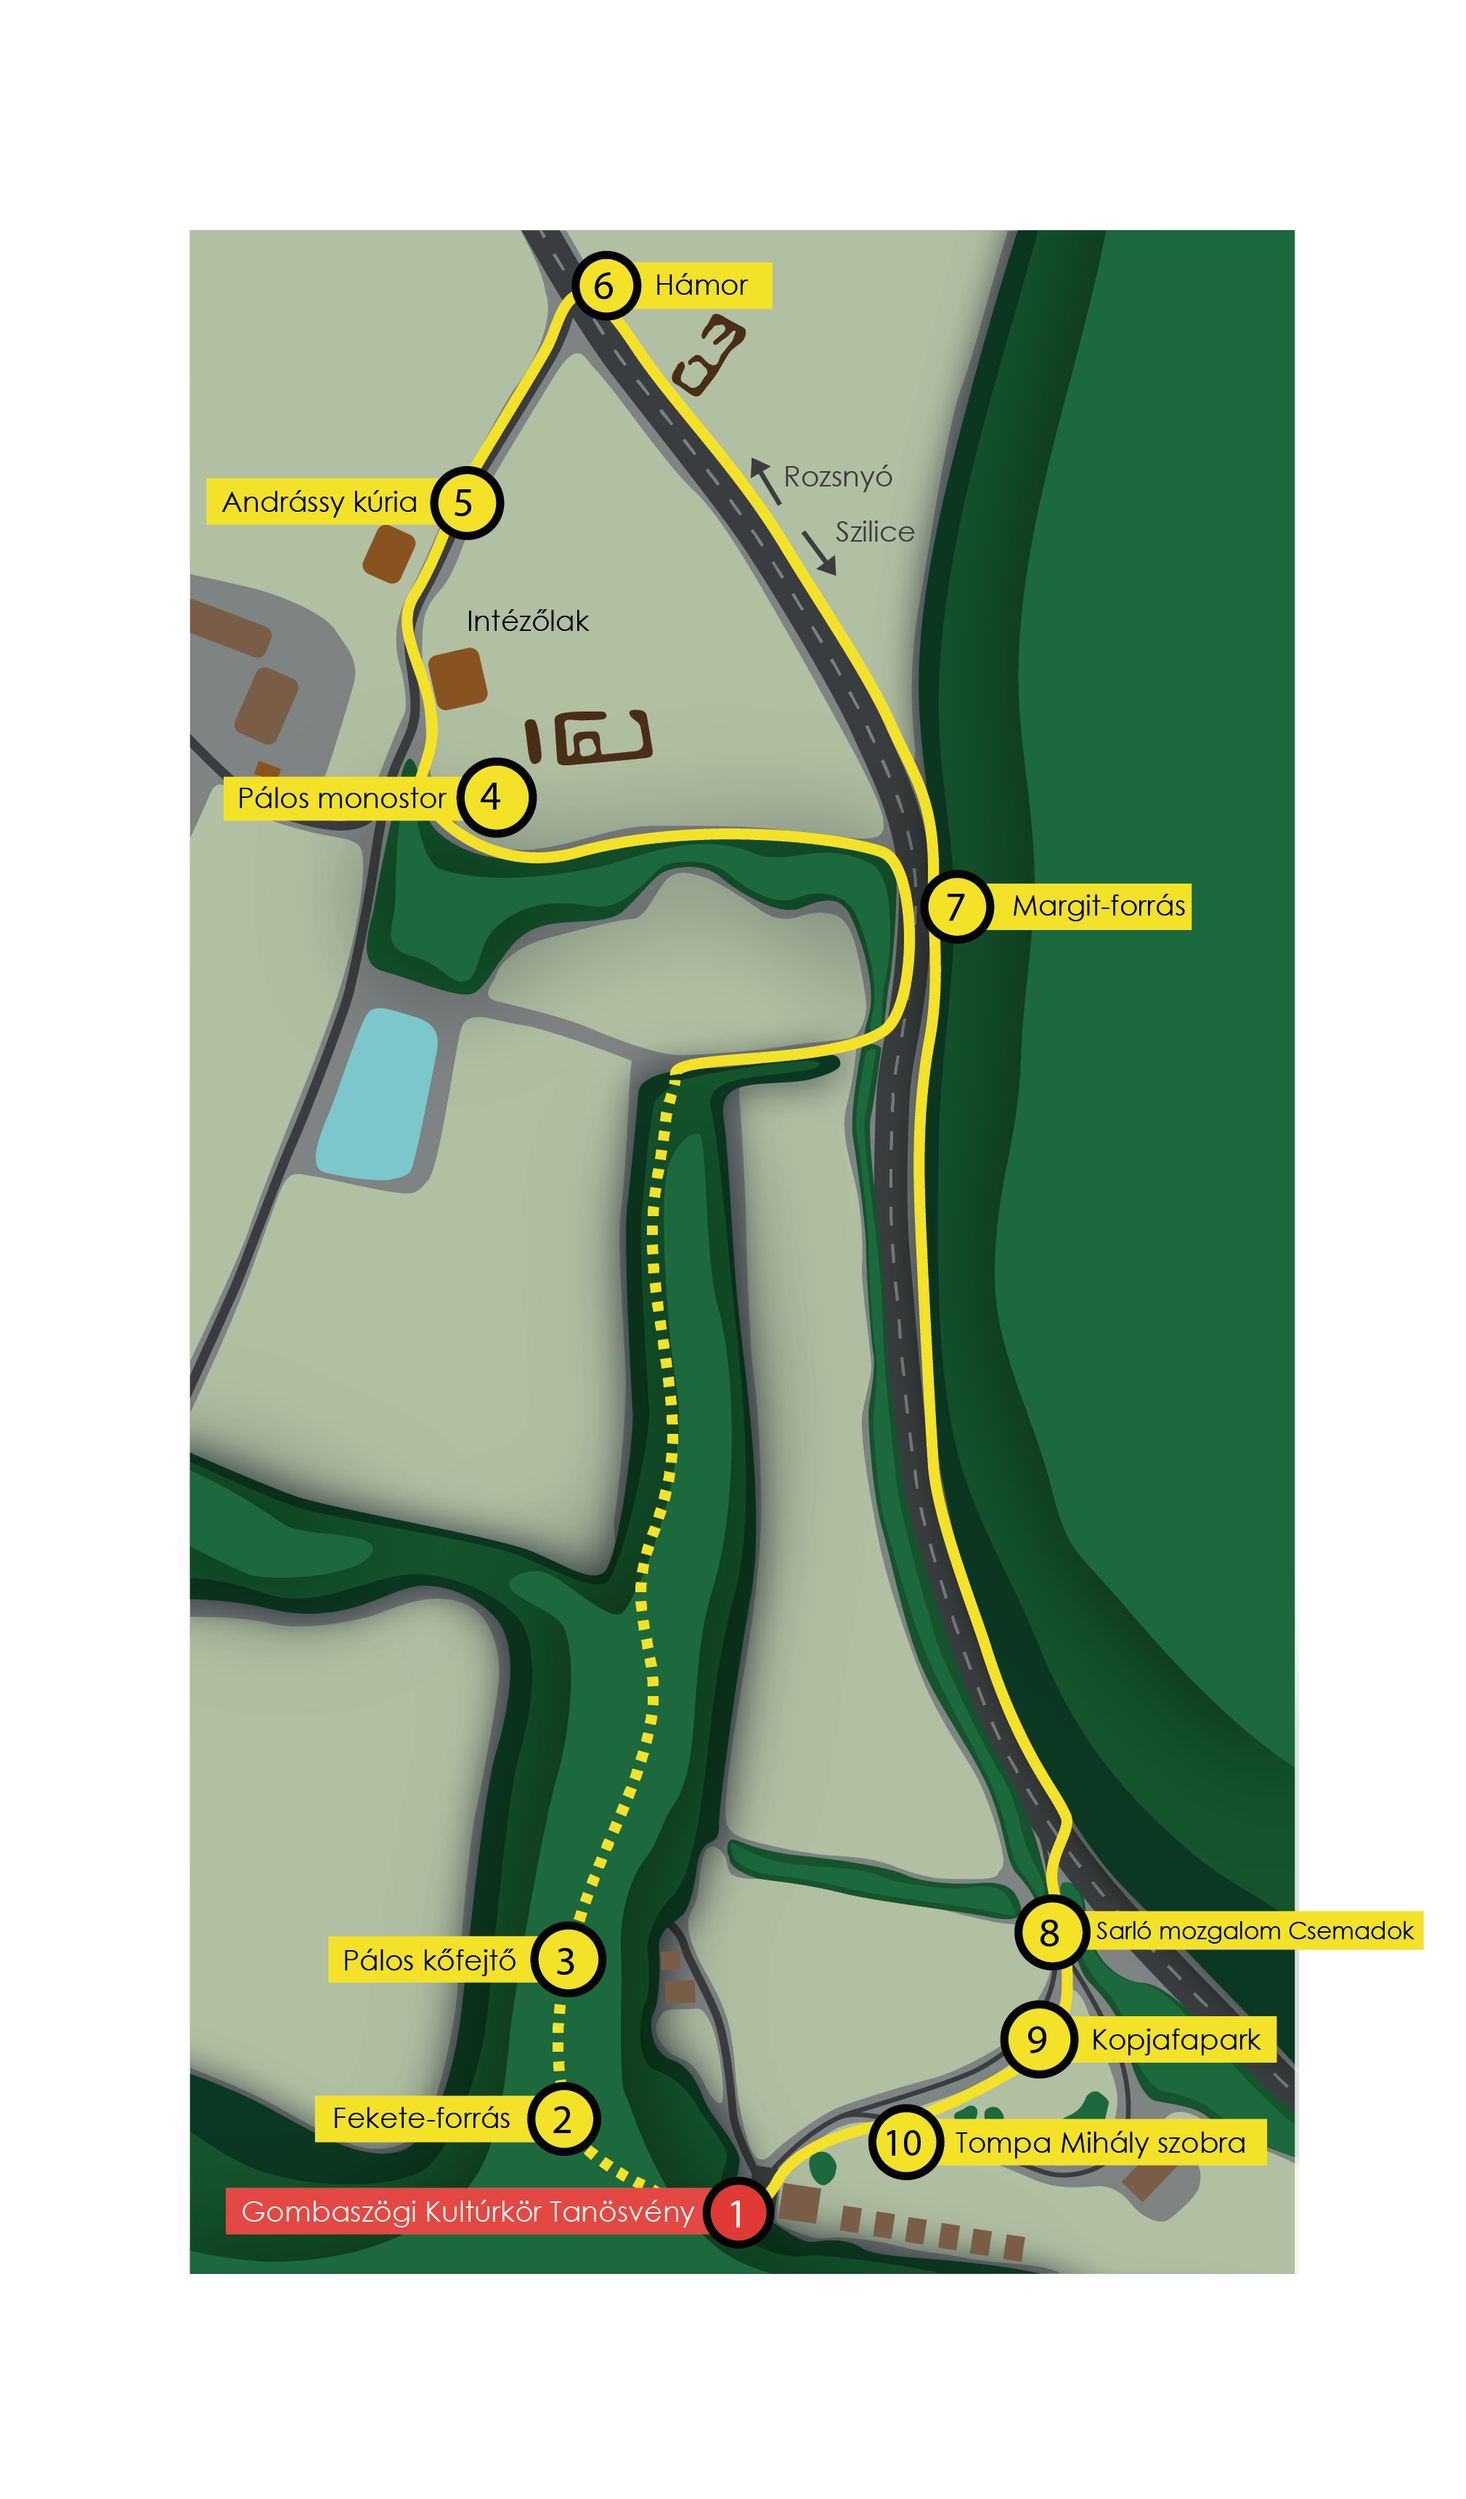
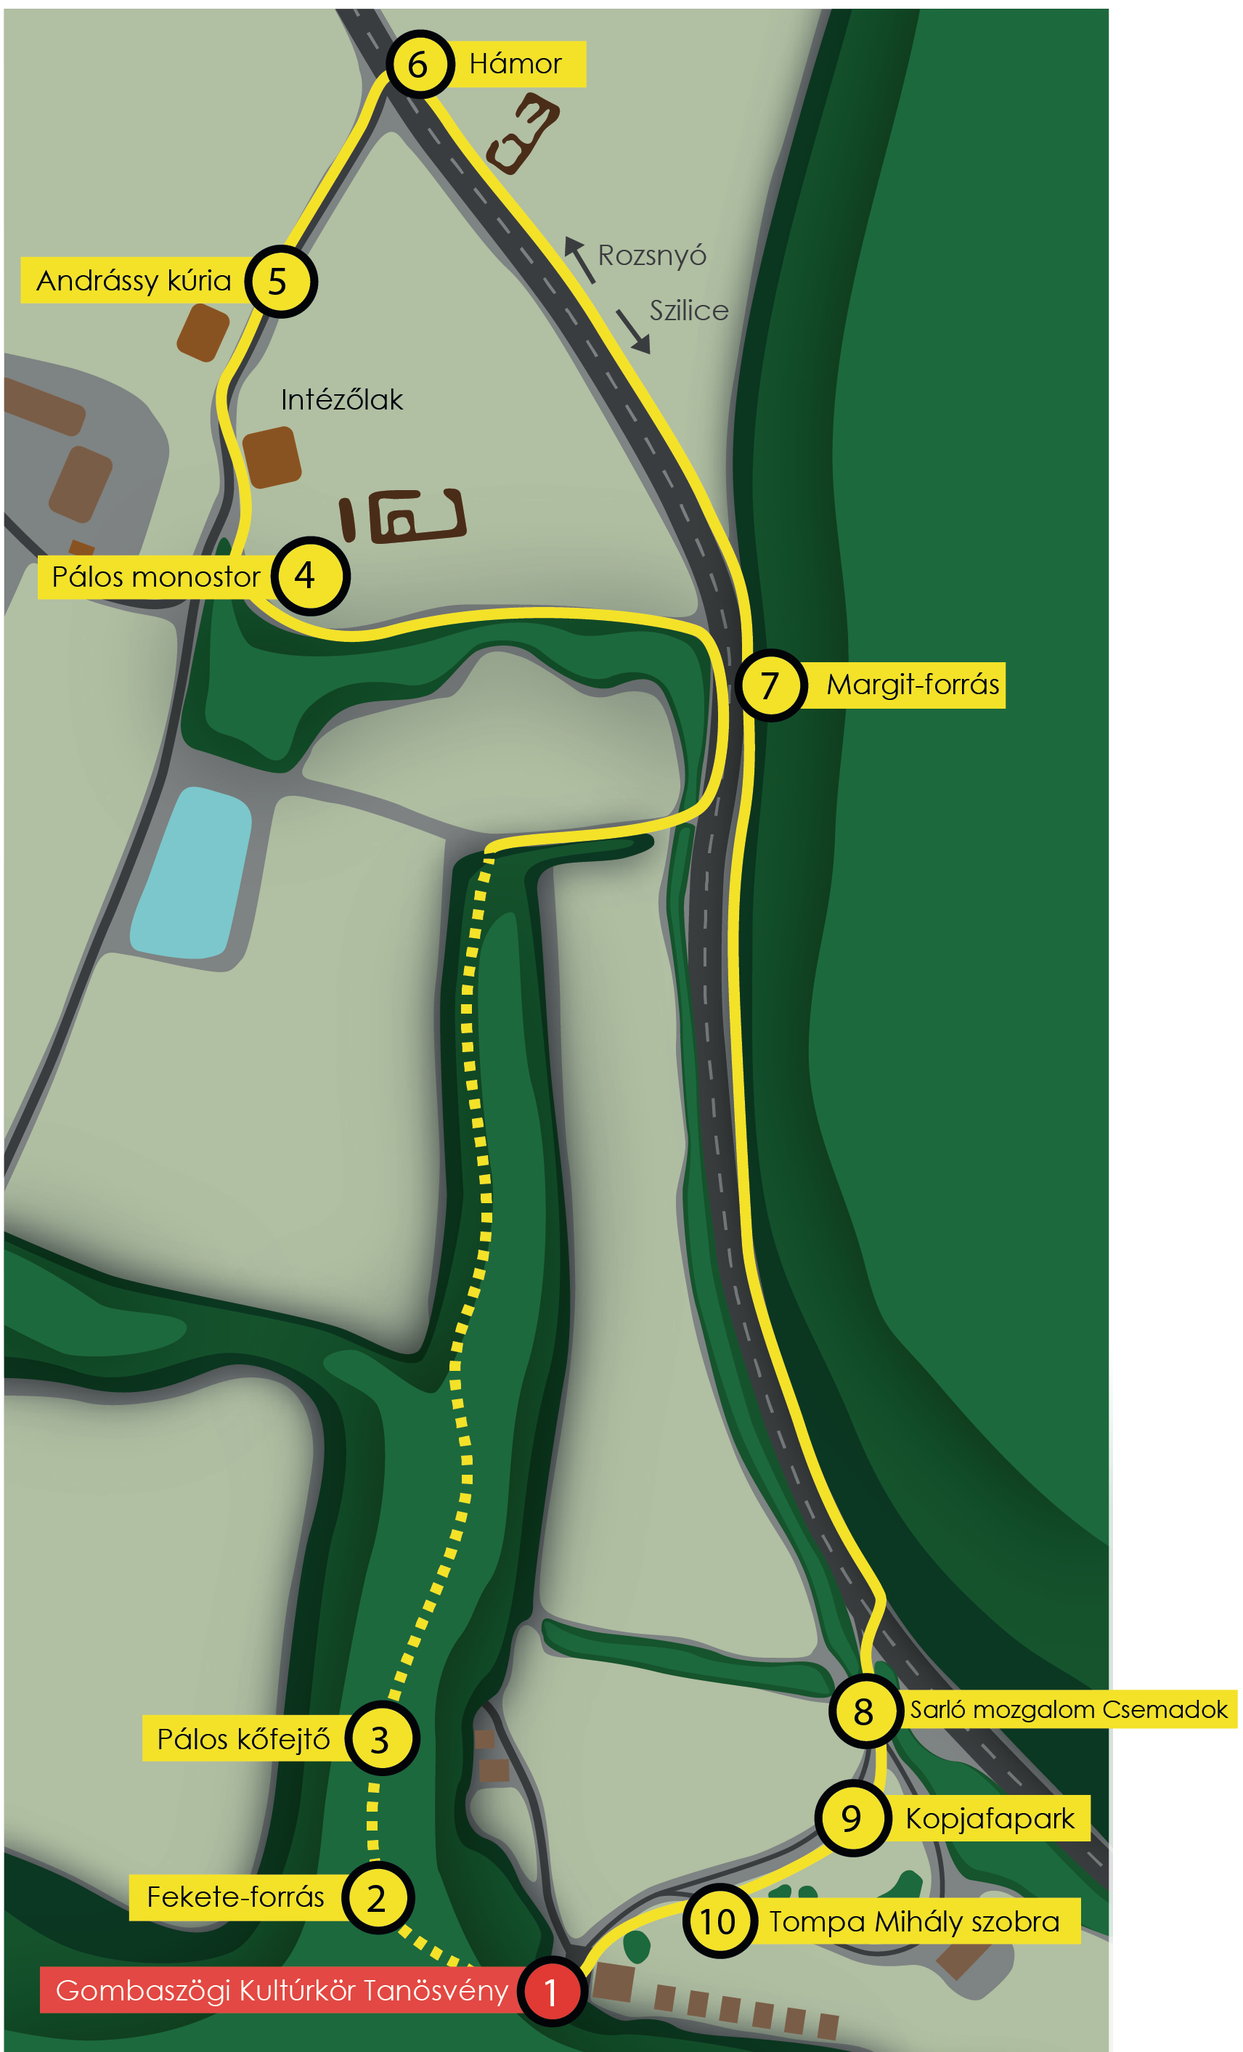
img compression test page#1

diff --git a/index.html b/index.html
@@ -34,7 +34,7 @@
     <!-- Navigation -->
     <nav class="navbar navbar-expand-lg navbar-dark bg-dark fixed-top">
       <div class="container">
-        <a class="navbar-brand" href="#">Tanösvény</a>
+        <a class="navbar-brand" href="#">Gombaszögi tanösvény</a>
         <button class="navbar-toggler" type="button" data-toggle="collapse" data-target="#navbarResponsive" aria-controls="navbarResponsive" aria-expanded="false" aria-label="Toggle navigation">
           <span class="navbar-toggler-icon"></span>
         </button>
@@ -71,7 +71,7 @@
             <li>Bootstrap 4.1.1</li>
             <li>jQuery 3.3.1</li>
           </ul> -->
-          <img src="./img/1/terkep.png" />
+          <img src="./img/1/terkep-min.png" />
         </div>
         <div class="col-lg-5">
           <p class="lead"><strong>A 3,5 km hosszú tanösvény megismertet bennünket Gombaszög természeti és kultúrtörténeti emlékeivel. 
@@ -87,7 +87,7 @@
       </div>
       <div class="row justify-content-md-center">
         <div class="col-lg-10">
-          <img src="./img/1/panthera.png" />
+          <img src="./img/1/panthera-min.png" />
         </div>
       </div>
       <div class="row justify-content-md-center bg-dark">
@@ -98,7 +98,7 @@
           </p>
         </div>
         <div class="col-lg-3">
-          <img src="./img/1/barlang.png" />
+          <img src="./img/1/barlang-min.png" />
         </div>
       </div>
     </div>
